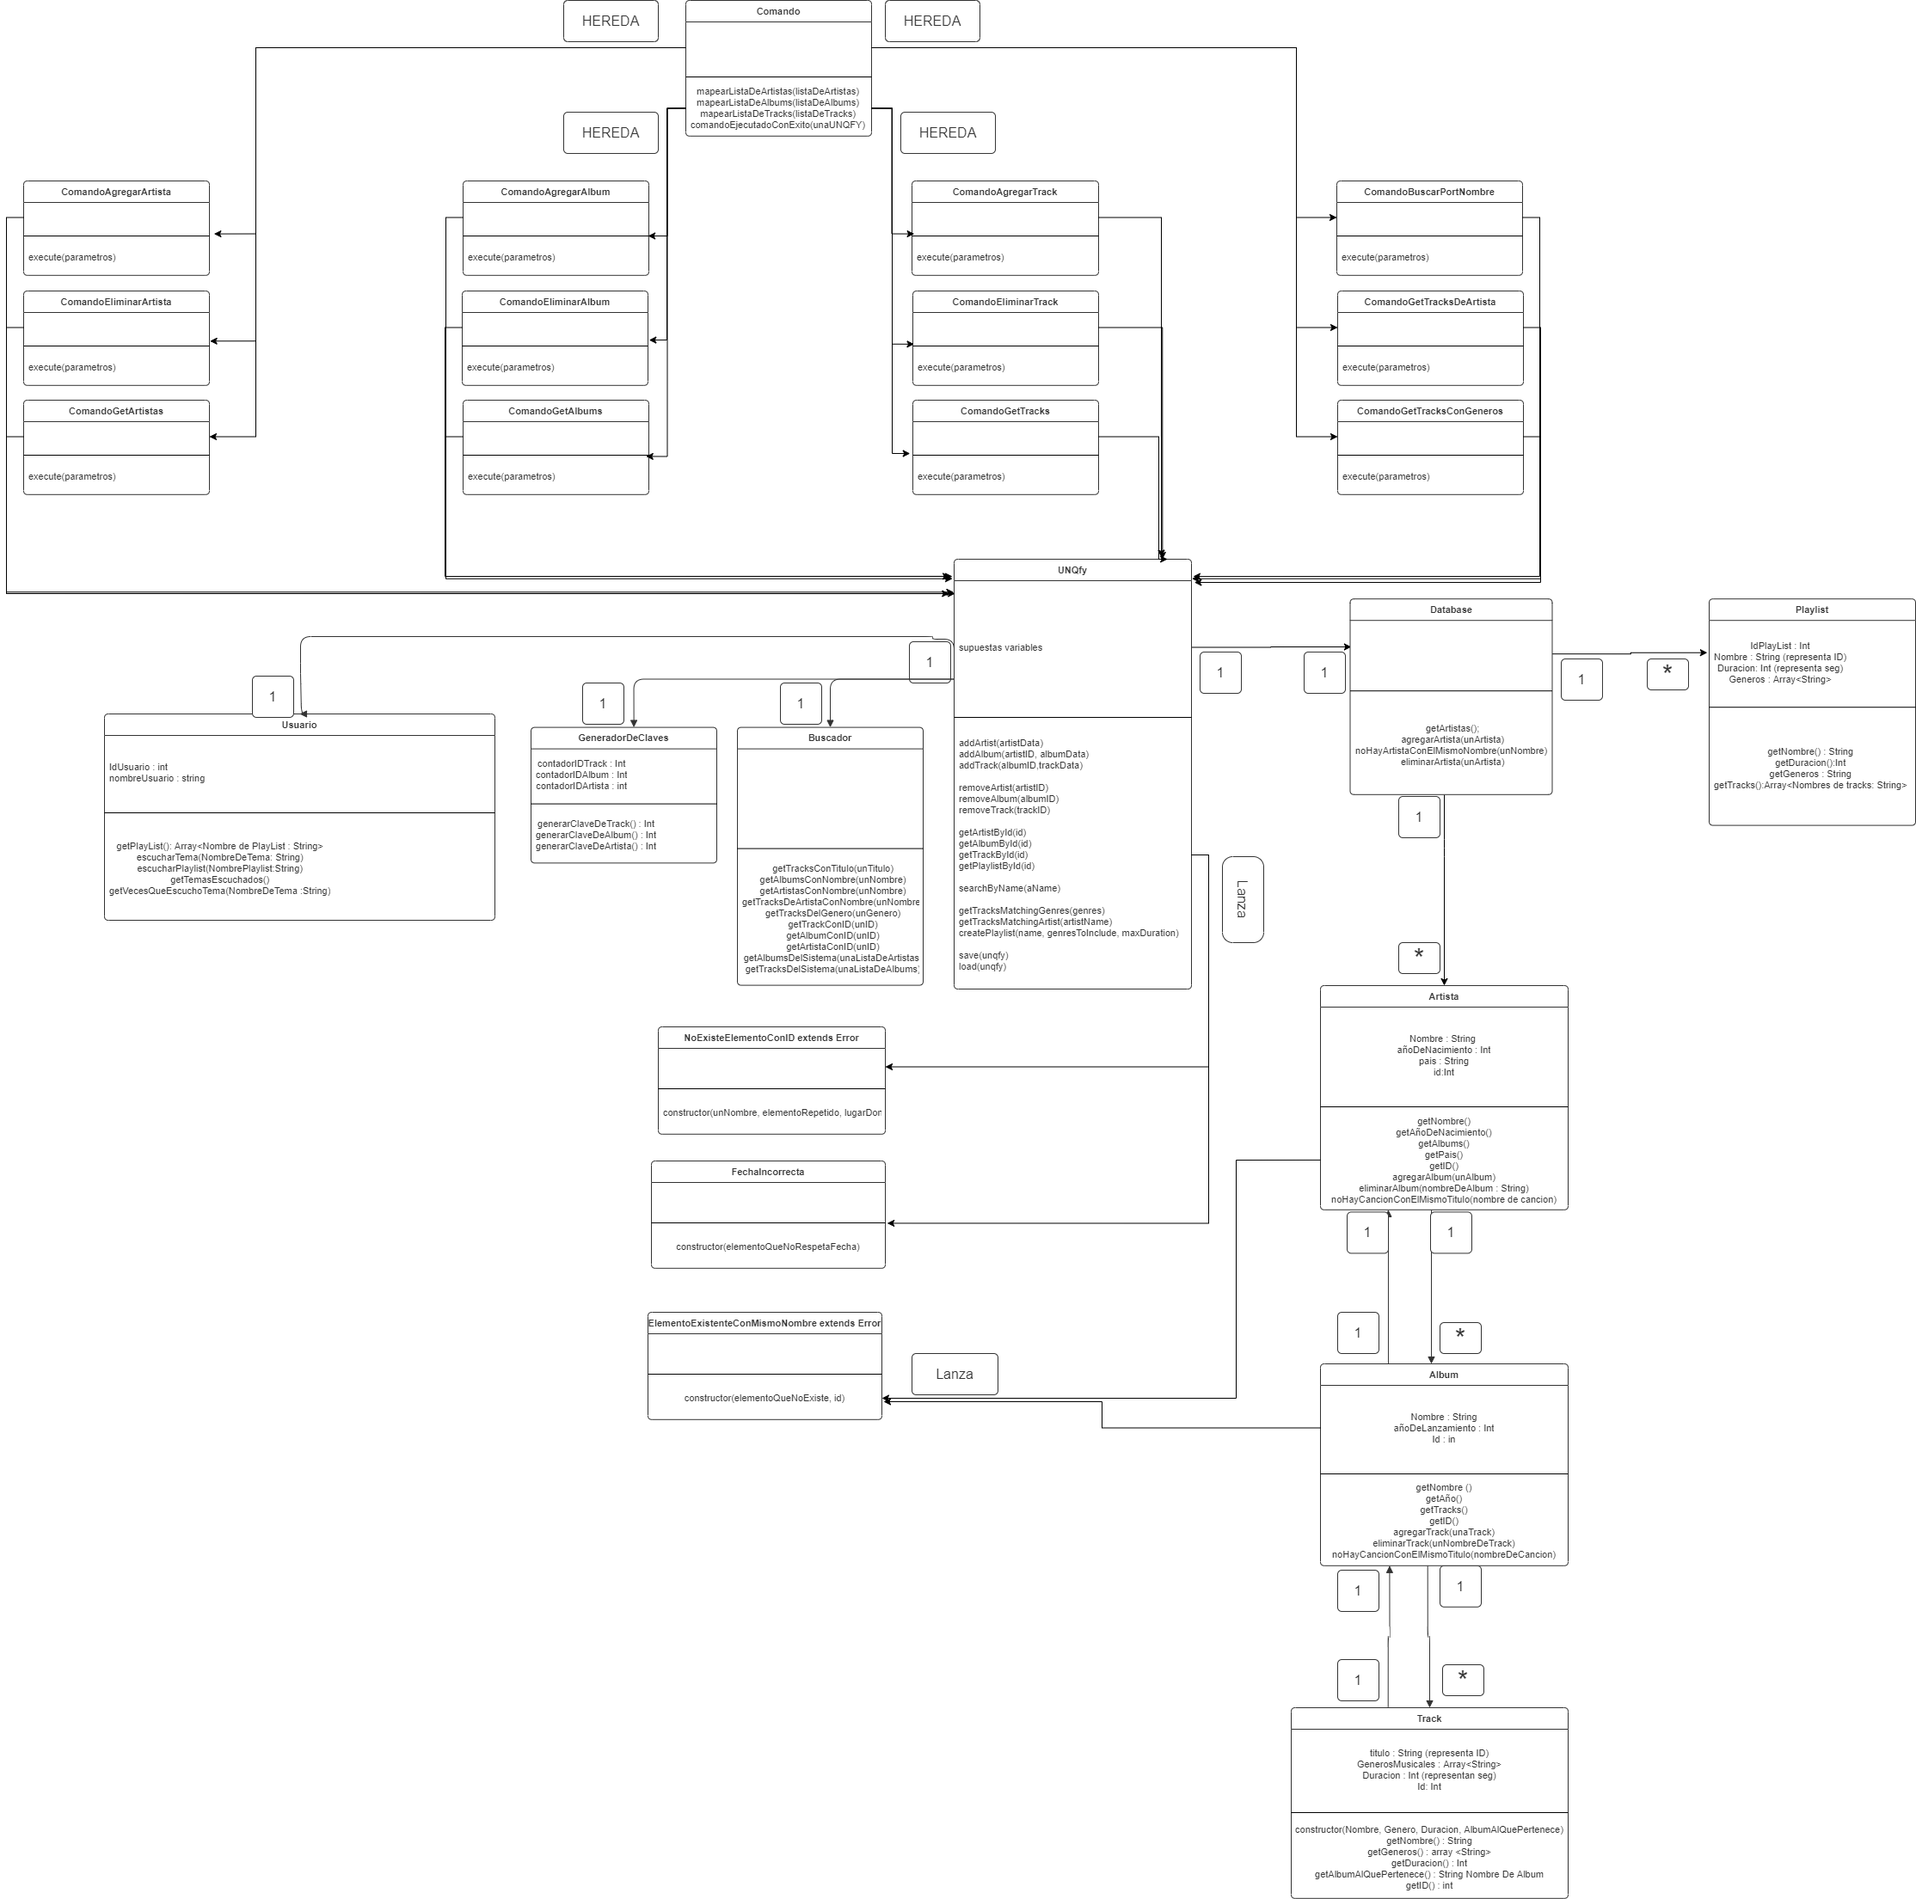
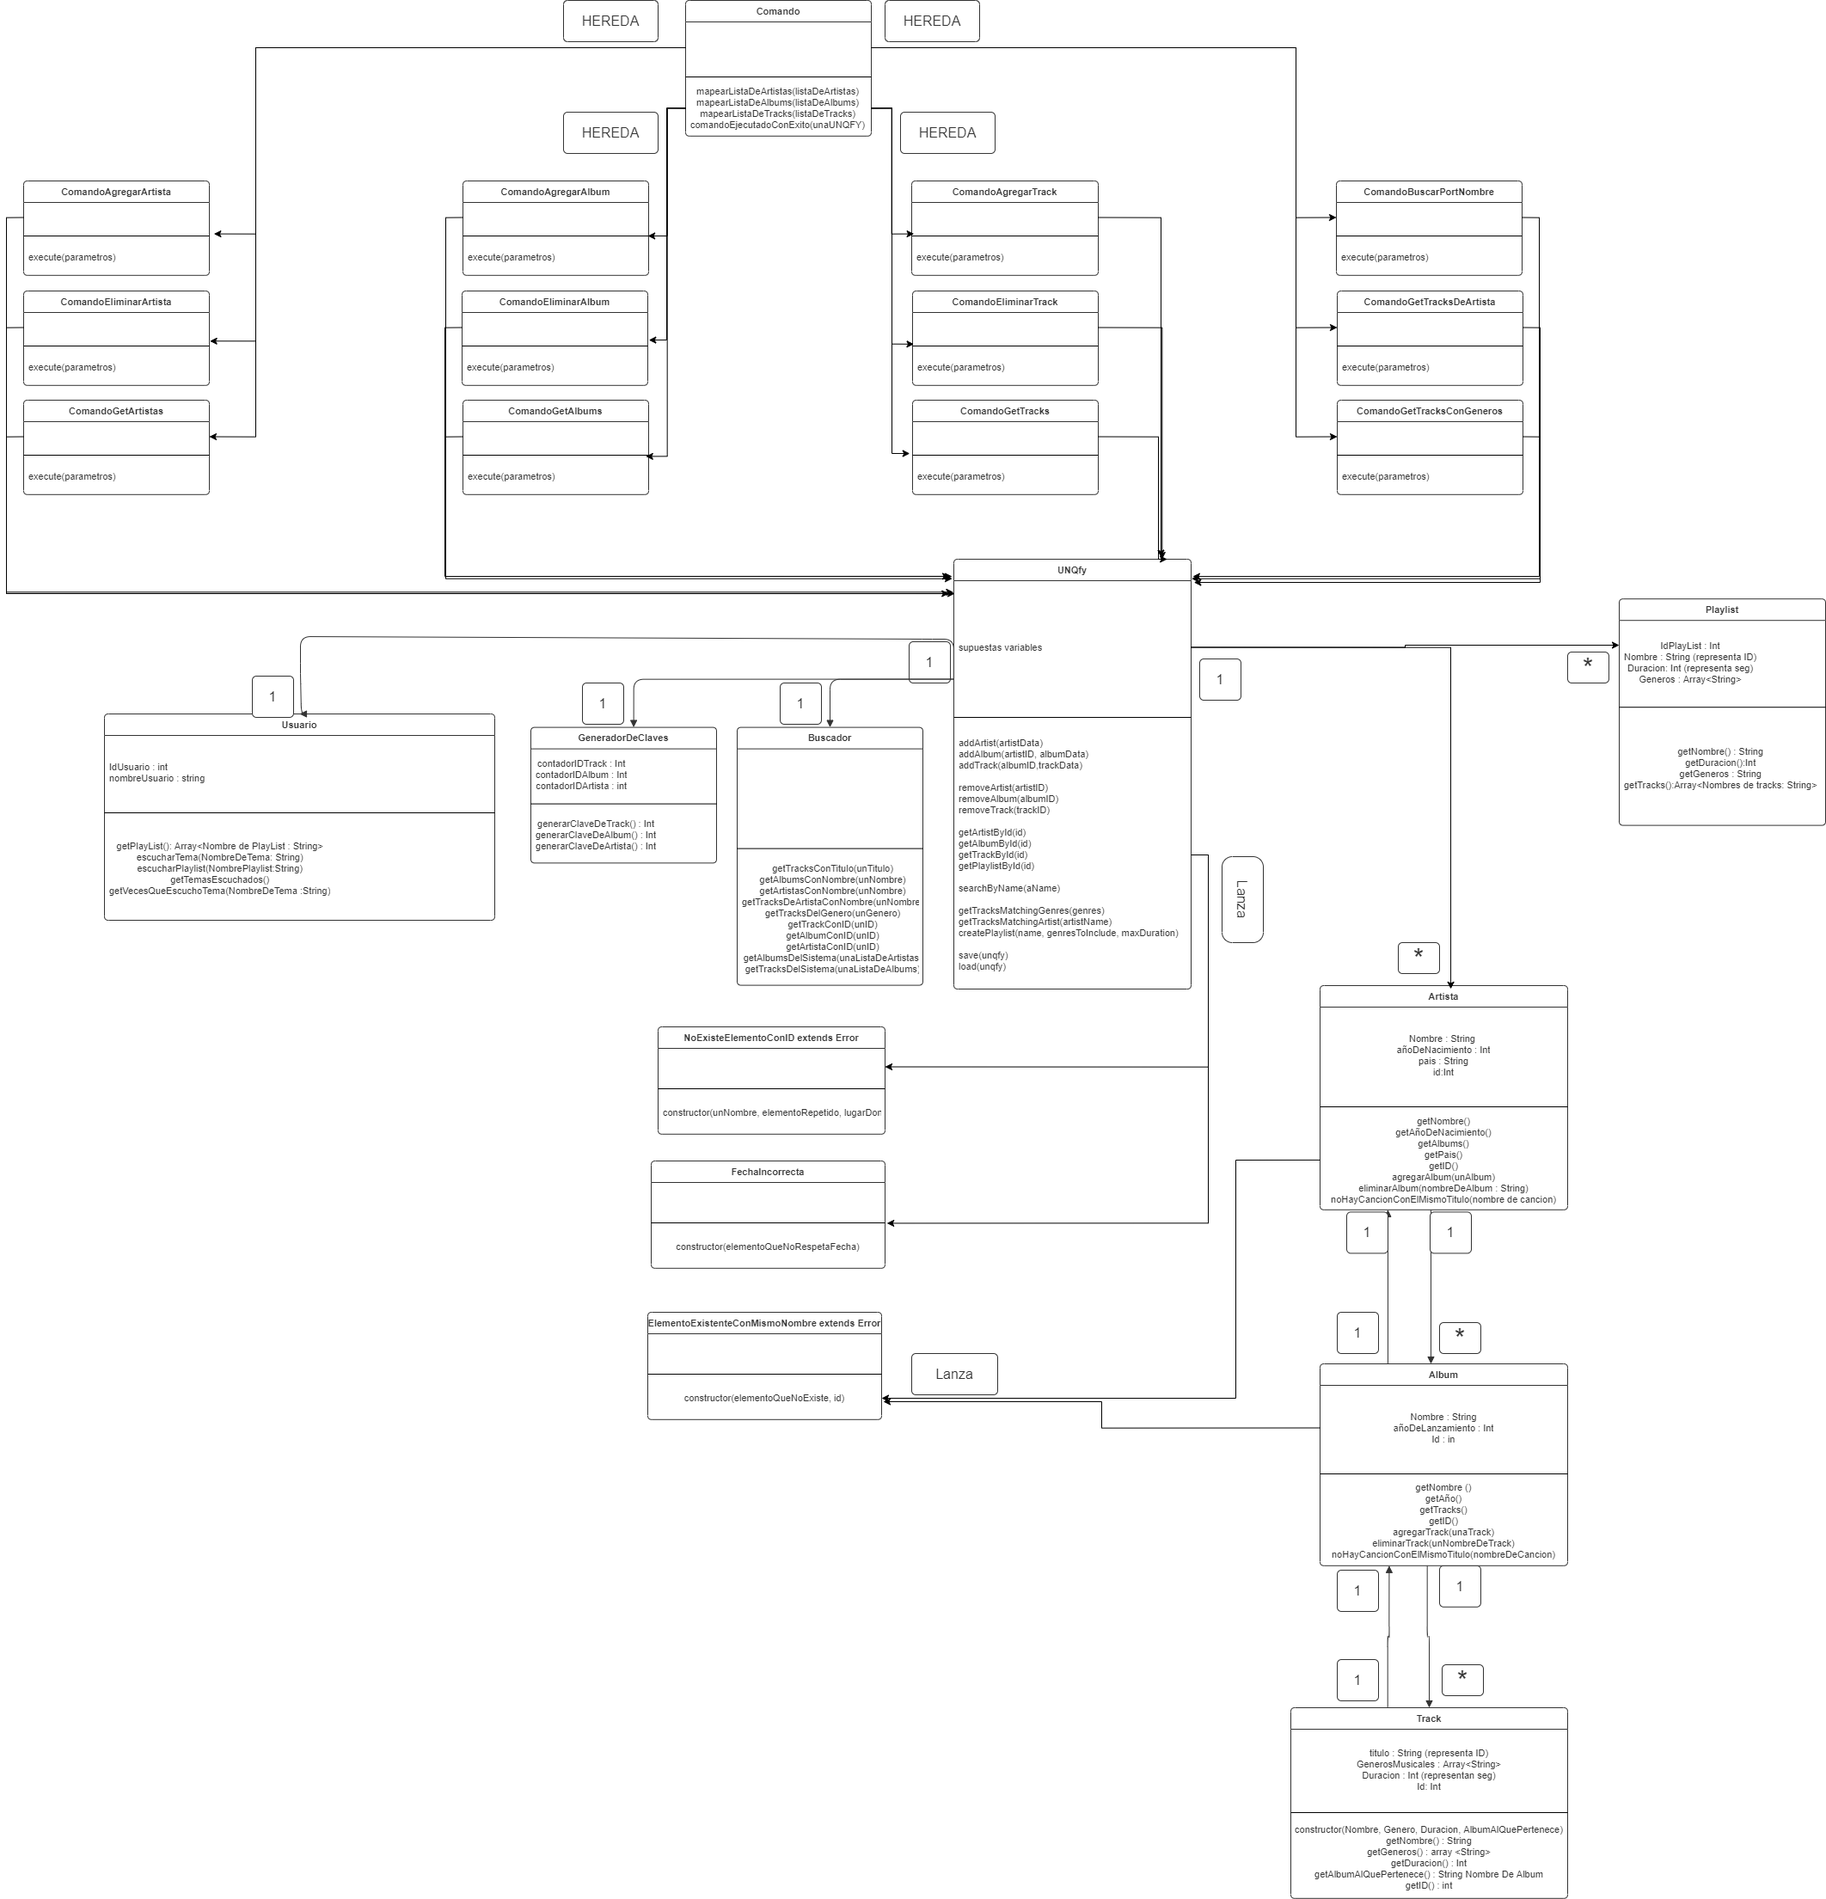
refactoring

diff --git a/visado_1/unqfy.js b/visado_1/unqfy.js
@@ -5,7 +5,6 @@ const fs = require('fs'); // para cargar/guarfar unqfy
 const Artista = require('./Artista');
 const Album = require('./Album');
 const Track = require('./track');
-const Database = require('./Database');
 const GeneradorDeClaves = require('./GeneradorDeClaves');
 const Buscador = require('./Buscador');
 const Errores = require('./Errores');
@@ -14,9 +13,12 @@ const Errores = require('./Errores');
 class UNQfy {
 
   constructor(){
-    this._database = new Database();
+    //this._database = new Database();
     this._generadorDeClaves = new GeneradorDeClaves();
     this._buscador = new Buscador();
+
+    this._artistas = [];
+    this._playList = [];
   }
 
   // artistData: objeto JS con los datos necesarios para crear un artista
@@ -35,7 +37,7 @@ class UNQfy {
       let nuevoID = this._generadorDeClaves.generarClaveDeArtista();
       
       let nuevoArtista = new Artista(artistData.name, artistData.bornDate, this.capitalize(artistData.country), nuevoID)
-      this._database.agregarArtista(nuevoArtista);
+      this._artistas.push(nuevoArtista);
       return nuevoArtista;
   }
 
@@ -45,21 +47,21 @@ class UNQfy {
   //   albumData.year (number)
   // retorna: el nuevo album creado
   addAlbum(artistId, albumData) {
-    let artistaConID = this._buscador.getArtistaConID(artistId, this._database.artistas);
-    if(artistaConID !== undefined && albumData.year < new Date().getFullYear()){
+    let artistaConID = this._buscador.getArtistaConID(artistId, this._artistas);
+    if(artistaConID === undefined){
+
+      throw new Errores.NoExisteElementoConID("artista", artistId);
+    }else if(albumData.year > new Date().getFullYear()){
+
+      throw new Errores.FechaInvalida("del album");
+    }else{
+
       let nuevoID = this._generadorDeClaves.generarClaveDeAlbum();
       let nuevoAlbum = new Album(albumData.name, albumData.year, nuevoID, artistaConID);
       artistaConID.agregarAlbum(nuevoAlbum);
       return nuevoAlbum;
-    }else{
-      if(artistaConID == undefined){
-        throw new Errores.NoExisteElementoConID("artista", artistId);
-      }else{
-        throw new Errores.FechaInvalida("del album");
-      }
     }
   }
-
 
   // trackData: objeto JS con los datos necesarios para crear un track
   //   trackData.name (string)
@@ -67,7 +69,7 @@ class UNQfy {
   //   trackData.genres (lista de strings)
   // retorna: el nuevo track creado
   addTrack(albumId, trackData) {
-    let albumConID = this._buscador.getAlbumConID(albumId, this._database.artistas);
+    let albumConID = this._buscador.getAlbumConID(albumId, this._artistas);
     if(albumConID !== undefined){
       let nuevoID = this._generadorDeClaves.generarClaveDeTrack();
       let nuevoTrack = new Track(trackData.name, trackData.genres, trackData.duration, albumConID, nuevoID);
@@ -78,17 +80,22 @@ class UNQfy {
     }
   }
 
+  agregarplaylist(unaplayList) {
+    this._playList.push(unaplayList);
+  }
+
   eliminarArtista(artistaID){
-    let artistaAEliminar = this._buscador.getArtistaConID(artistaID, this._database.artistas);
+    let artistaAEliminar = this._buscador.getArtistaConID(artistaID, this._artistas);
     if(artistaAEliminar !== undefined){
       artistaAEliminar.albums.forEach(album => this.eliminarAlbum(album.id));
-      this._database.eliminarArtista(artistaAEliminar.nombre);
+      this._artistas = this._artistas.filter(artista => artista.nombre !== unNombreDeArtista);
     }else{
       throw new Errores.NoExisteElementoConID("artista", artistaID);
     }
   }
+
   eliminarAlbum(albumID){
-    let albumAElminar = this._buscador.getAlbumConID(albumID, this._database.artistas);
+    let albumAElminar = this._buscador.getAlbumConID(albumID, this._artistas);
     if(albumAElminar !== undefined){
       albumAElminar.tracks.forEach(track => this.eliminarTrack(track.id));
       let autorDelAlbum = albumAElminar.autor;
@@ -98,7 +105,7 @@ class UNQfy {
     }
   }
   eliminarTrack(trackID){
-    let trackAEliminar = this._buscador.getTrackConID(trackID, this._database.artistas);
+    let trackAEliminar = this._buscador.getTrackConID(trackID, this._artistas);
     if(trackAEliminar !== undefined){
       let albumDeLaTrack = trackAEliminar.albumAlquePertenece;
       albumDeLaTrack.eliminarTrack(trackAEliminar.titulo);
@@ -110,16 +117,20 @@ class UNQfy {
     }
   }
 
+  eliminarPlaylist(unnombrePlayList) {
+    this._playList = this._playList.filter(playlist => playlist.nombre !== unnombrePlayList);
+  }
+
   getArtistas(){
-    return this._database.artistas;
+    return this._artistas;
   }
 
   getAlbums(){
-    return this._buscador.getAlbumsDelSistema(this._database.artistas);
+    return this._buscador.getAlbumsDelSistema(this._artistas);
   }
 
   getTracks(){
-    return this._buscador.getTracksDelSistema(this._database.artistas);
+    return this._buscador.getTracksDelSistema(this._artistas);
   }
 
   getPlaylistById(id) {
@@ -128,9 +139,9 @@ class UNQfy {
 
   searchByName(aName){
     let dictionary = {
-      artists: this._buscador.getArtistasConNombre(aName, this._database.artistas),
-      albums: this._buscador.getAlbumsConNombre(aName, this._database.artistas),
-      tracks: this._buscador.getTracksConTitulo(aName, this._database.artistas),
+      artists: this._buscador.getArtistasConNombre(aName, this._artistas),
+      albums: this._buscador.getAlbumsConNombre(aName, this._artistas),
+      tracks: this._buscador.getTracksConTitulo(aName, this._artistas),
       //playlists: , agregar metodo correspondiente
     }
     return dictionary;
@@ -141,7 +152,7 @@ class UNQfy {
   getTracksMatchingGenres(genres) {
     let resultadoFinal = [];
     genres.forEach(genero => {
-      resultadoFinal = resultadoFinal.concat(this._buscador.getTracksDelGenero(genero, this._database.artistas));
+      resultadoFinal = resultadoFinal.concat(this._buscador.getTracksDelGenero(genero, this._artistas));
     });
     return [...new Set(resultadoFinal)];
   }
@@ -149,7 +160,7 @@ class UNQfy {
   // artistName: nombre de artista(string)
   // retorna: los tracks interpredatos por el artista con nombre artistName
   getTracksMatchingArtist(artistName) {
-    return this._buscador.getTracksDeArtistaConNombre(artistName, this._database.artistas);
+    return this._buscador.getTracksDeArtistaConNombre(artistName, this._artistas);
   }
 
 
@@ -180,7 +191,7 @@ class UNQfy {
   static load(filename) {
     const serializedData = fs.readFileSync(filename, {encoding: 'utf-8'});
     //COMPLETAR POR EL ALUMNO: Agregar a la lista todas las clases que necesitan ser instanciadas
-    const classes = [UNQfy, Buscador, Database, GeneradorDeClaves, Artista, Album, Track];
+    const classes = [UNQfy, Buscador, GeneradorDeClaves, Artista, Album, Track];
     return picklify.unpicklify(JSON.parse(serializedData), classes);
   }
 }

diff --git a/visado_1/Comandos.js b/visado_1/Comandos.js
@@ -103,7 +103,7 @@ function getUNQfy(filename = 'data.json') {
     }
 }
 
-class ComandoInexistente{
+class ComandoInexistente extends Comando{
 
     static execute(){
         console.log("ERROR: comando desconocido");
@@ -252,7 +252,11 @@ class ComandoGetArtistas extends Comando{
     static execute(){
         let unaUNQFY = getUNQfy();
         let resultados = unaUNQFY.getArtistas();
-        console.log(super.mapearListaDeArtistas(resultados));
+        if(resultados.length === 0){
+            console.log("no hay ningun artista registrado en el sistema")
+        }else{
+            console.log(super.mapearListaDeArtistas(resultados));
+        }
     }
 }
 
@@ -261,7 +265,11 @@ class ComandoGetAlbums extends Comando{
     static execute(){
         let unaUNQFY = getUNQfy();
         let resultados = unaUNQFY.getAlbums();
-        console.log(super.mapearListaDeAlbums(resultados));
+        if(resultados.length ===  0){
+            console.log("no hay ningun album registrado en el sistema")
+        }else{
+            console.log(super.mapearListaDeAlbums(resultados));
+        }
     }
 }
 
@@ -270,7 +278,11 @@ class ComandoGetTracks extends Comando{
     static execute(){
         let unaUNQFY = getUNQfy();
         let resultados = unaUNQFY.getTracks();
-        console.log(super.mapearListaDeTracks(resultados));
+        if(resultados.length === 0){
+            console.log("no hay ninguna track registrada en el sistema")
+        }else{
+            console.log(super.mapearListaDeTracks(resultados));
+        }
     }
 }
 

diff --git a/visado_1/test.js b/visado_1/test.js
@@ -5,7 +5,6 @@ const libunqfy = require('./unqfy');
 const Track = require('./track');
 const Album = require('./Album');
 const Artista = require('./Artista');
-const Database = require('./Database');
 const Buscador = require('./Buscador');
 const GeneradorDeClaves = require('./GeneradorDeClaves');
 const Errores = require('./Errores');
@@ -290,37 +289,6 @@ describe('Artist tests', () => {
     assert.equal(artista.albums.length, 0);
   })
 
-})
-
-describe('Database tests', () => {
-  let database;
-  let artista1;
-  let artista2;
-
-  beforeEach(() => {
-   database = new Database();
-   artista1 = new Artista("fran", 1998, "argentina", 0);
-   artista2 = new Artista("anto", 1998, "argentina", 1);
-  })
-
-  it('una database puede agregar 2 artistas con el mismo nombre', () => {
-    const artista3 = new Artista("fran", 1988,2);
-
-    database.agregarArtista(artista1);
-    assert.equal(database.artistas.length, 1);
-
-    database.agregarArtista(artista3);
-    assert.equal(database.artistas.length, 2);
-  })
-
-  it('una database puede eliminar un artista', () => {
-
-    database.agregarArtista(artista1);
-    assert.equal(database.artistas.length, 1);
-
-    database.eliminarArtista("fran");
-    assert.equal(database.artistas.length, 0);
-  })
 })
 
 describe('GeneradorDeClaves tests', () => {
